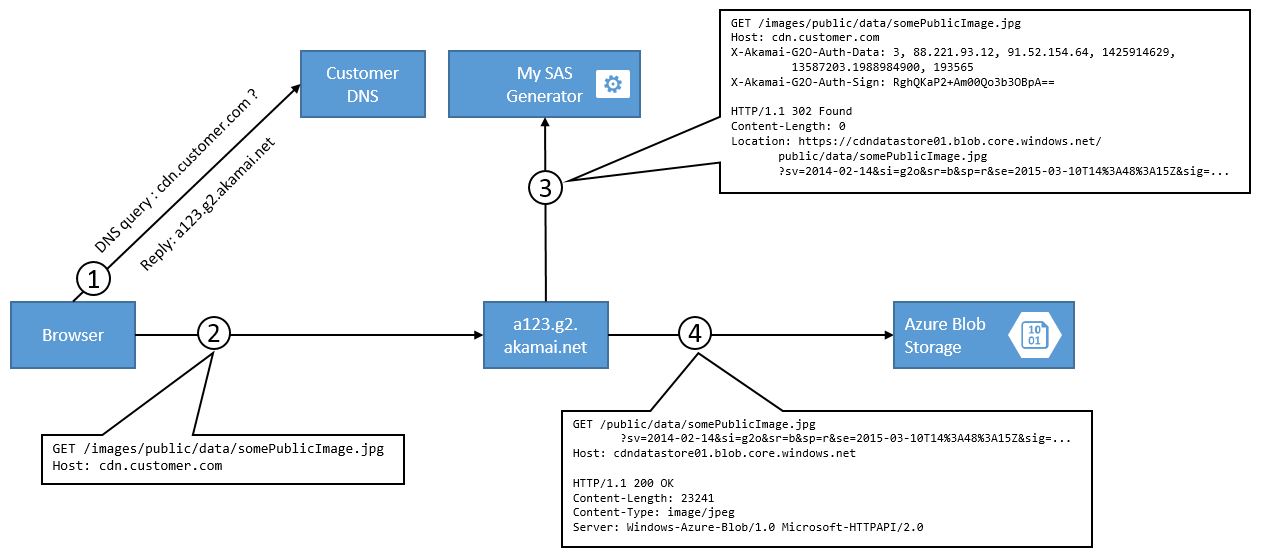
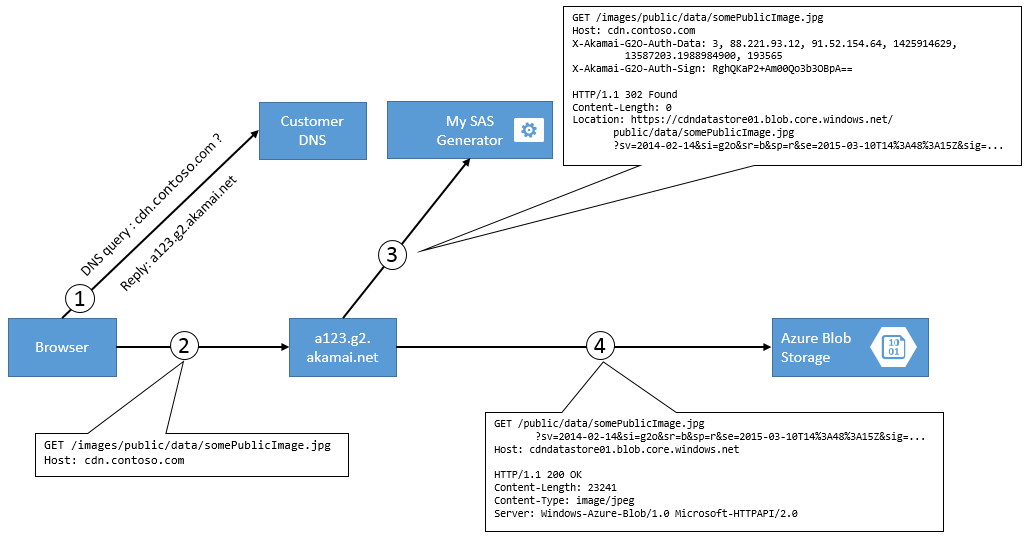
a

Changed region(s): [[0.0, 0.0, 0.9951, 1.0], [0.4976, 0.3562, 0.5598, 0.4156]]

diff --git a/_posts/2015-03-12-accessing-microsoft-azure-blob-storage-with-g2o-authentication.md b/_posts/2015-03-12-accessing-microsoft-azure-blob-storage-with-g2o-authentication.md
@@ -12,6 +12,8 @@ SRC: http://blog.geuer-pollmann.de/blog/2015/03/12/accessing-microsoft-azure-blo
 
 This article explains how to securely, and with little effort, expose files in Azure Blob Storage towards the Akamai content delivery network. A proxy app (based on ASP.NET Web API), running in an Azure Cloud Service, checks G2O authentication headers, and then either redirects the CDN to the storage service directly, or fetches the data from the back. 
 
+The end-to-end solution is avaiable here: https://github.com/chgeuer/G2O2AzureBlobStorage
+
 ## Introduction
 
 In this proof-of-concept, we're going to integrate two pieces of technology together: Microsoft Azure Blob Storage, and the Akamai Content Delivery Network. 
@@ -82,7 +84,7 @@ int version, string edgeIP, string clientIP, long time, string uniqueId, string 
 
 After cryptographically processing the input from the `X-Akamai-G2O-Auth-Data` header and the URL's local path with the cryptograhic key associated with the 'nonce', the resulting cryptograhic value is tranported in the `X-Akamai-G2O-Auth-Sign` header. (I resist to call is a 'signature' because it is a symmetric system, not offering data origin authentication, just message integrity and peer entity authentication.)
 
-The five [G2O algorithms][my g2o implementation] are based on pretty 'conventional' crypto, but for just keeping the egress load on origin servers low, it's certainly OK. Have a look at my [test vectors](https://github.com/chgeuer/G2O2AzureBlobStorage/blob/master/G2OTests/G2OCryptoUnitTest.cs) for how these strings look like. 
+The five [G2O algorithms][my g2o implementation] are based on pretty 'conventional' crypto, but for just keeping the egress load on origin servers low, it's certainly OK. Have a look at my [test vectors][test vectors] for how these strings look like. 
 
 ```csharp
 using SignAlgorithm = System.Func<byte[], byte[], byte[], byte[]>;
@@ -107,6 +109,69 @@ After defining the protocol foundation, we can now focus on the actual solution:
 
 <img src="/img/2015-03-12-accessing-microsoft-azure-blob-storage-with-g2o-authentication/flow.png"></img>
 
+Simply speaking, we deploy an SAS generator proxy app. Then in Akamai, we configure our SAS Generator Service as origin, and turn on "Redirect Chasing". When clients get a file from the CDN, the edge servers attempt to fetch the files from our SAS Generator Service, which authenticates them using G2O and redirects them to blob storage, with an SAS URL. 
+
+1. The first step in the flow is the user's browser making a DNS query for `cdn.customer.com` against the customer's DNS Server. The DNS Server returns CNAME or A record the edge node `a123.g2.akamai.net`. 
+2. The client's browser sends a `GET` request against the edge node and retrieves the resource `/images/public/data/somePublicImage.jpg`. 
+3. The edge node sends a `GET` request against the CNAME of the configured origin, like `contosoorigin.cloudapp.net` but with a `Host` header of `cdn.customer.com`, retrieving the resource `/images/public/data/somePublicImage.jpg`. From the point of view of the CDN, this is a full origin server, hosting the content. From an implementation perspective, this is just a tiny ASP.NET WebAPI Controller which 
+	- validates the G2O Headers to make sure the called is indeed the CDN, 
+	- extracts the first segment of the URL path (`/images` in our example), and checks whether there is a storage account associated with this alias,
+	- extracts the second segment of the URL path (`public` in our example), and checks whether the this container is actually exposed in config
+	- generates a SAS URL for the real Azure Blob Storage Account (without the `images` part), and returns an HTTP 302 Redirect back to the CDN. 
+	- As a last step, the URL's scheme (http or https) must match the one of the inbound request, an important detail for the next step to work. 
+4. After the CDN's edge node receives the 302 redirect response, it checks two things: 
+	- The configuration at Akamai must have "Redirect Chasing" enabled, otherwise the edge server refuses to follow that redirect.
+	- The scheme of the 302 Response (with or without TLS) must be equal to the origin requests scheme, otherwise the AkamaiGHost sends you a fancy "404 An error occurred while processing your request".
+	- Now the CDN edge node uses the 302 address to retrieve the actual contents from CDN. This request is now validated by Azure Blob Storage using the shared-access-signature magic.
+
+
+# Implementation details
+
+## G2O OWIN Middleware
+
+The [G2OHandlers][G2OHandlers] project contains a full-fledged OWIN Middleware for handling G2O authN. 
+
+```csharp
+ public void Configuration(IAppBuilder app)
+{
+    Func<string, string> keyResolver ...;
+    app.EnforeG2OAuthentication((Func<string,string>) keyResolver);
+    ...
+}
+```
+
+In order to check whether an inbound http request is permitted, the OWIN middleware needs access to the cryptographic key material. You must supply a `Func<string,string> keyResolver` handler, which gets an Akamai 'nonce' (key identifier like `"193565"`) as input, and returns the key (like `"07bf84629be85d68a3ef343d"`). 
+
+As a result, the [G2OAuthenticationHandler.cs][G2OAuthenticationHandler.cs] issues an `AuthenticationTicket` with various claims containing all the G2O validation data. The `ClientIP`, i.e. the IP address of the actual client itself, is currently not validated, but the implementation could easily be extended to support geo-fencing scenarios (if you believe an IP address still has meaning in this century). 
+
+## G2O HttpClientHandler
+
+The implementation also contains an [G2OHttpClientHandler.cs][G2OHttpClientHandler.cs] 
+
+```csharp
+// Use https://raw.githubusercontent.com/chgeuer/WhatIsMyIP/master/WhatIsMyIP/ExternalIPFetcher.cs
+// for determining my own IP address. Sorry, I'm in the home office behind a NAT ...
+
+var path = "/images/public/data/somePublicImage.jpg";
+
+var g2oClientHandler = new G2OHttpClientHandler(
+    version: 3, // 1..5
+    edgeIP: ExternalIPFetcher.GetAddress().IPAddress.ToString(), 
+    clientIP: "1.2.3.4", // harrr harrr :-)
+    nonce: "193565",
+    nonceValue: "07bf84629be85d68a3ef343d");
+
+var client = new HttpClient(g2oClientHandler);
+var response = client.SendAsync(
+	new HttpRequestMessage(HttpMethod.Get,
+	"http://contosocdn.cloudapp.net" + path )).Result;
+```
+
+With this baby, you can simply impersonate a CDN edge node for debugging purposes. 
+
+
+
+
 
 [block blobs]: https://msdn.microsoft.com/en-us/library/azure/ee691964.aspx
 [azure storage REST API]: https://msdn.microsoft.com/en-us/library/azure/dd135733.aspx
@@ -120,3 +185,9 @@ After defining the protocol foundation, we can now focus on the actual solution:
 [nginx module g2o]: https://github.com/refractalize/nginx_mod_akamai_g2o
 [akamai community]: https://community.akamai.com/people/B-3-181J6KL/blog/2015/02/17/ghost-to-iis-origin-module
 [my g2o implementation]: https://github.com/chgeuer/G2O2AzureBlobStorage/blob/master/G2OHandlers/G2OAlgorithms.cs
+[G2OHandlers]: https://github.com/chgeuer/G2O2AzureBlobStorage/tree/master/G2OHandlers
+[test vectors]: https://github.com/chgeuer/G2O2AzureBlobStorage/blob/master/G2OTests/G2OCryptoUnitTest.cs
+
+[G2OAuthenticationHandler.cs]: https://github.com/chgeuer/G2O2AzureBlobStorage/blob/master/G2OHandlers/G2OAuthenticationHandler.cs
+[G2OHttpClientHandler.cs]: https://github.com/chgeuer/G2O2AzureBlobStorage/blob/master/G2OHandlers/G2OHttpClientHandler.cs
+
